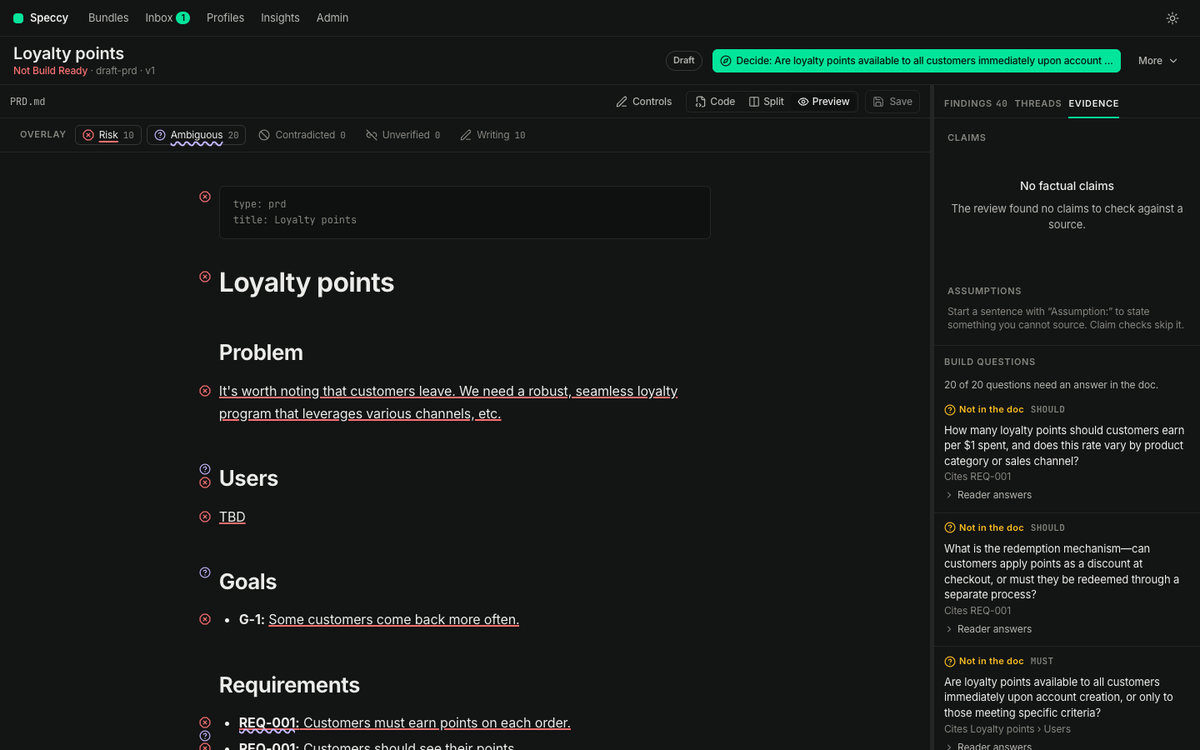
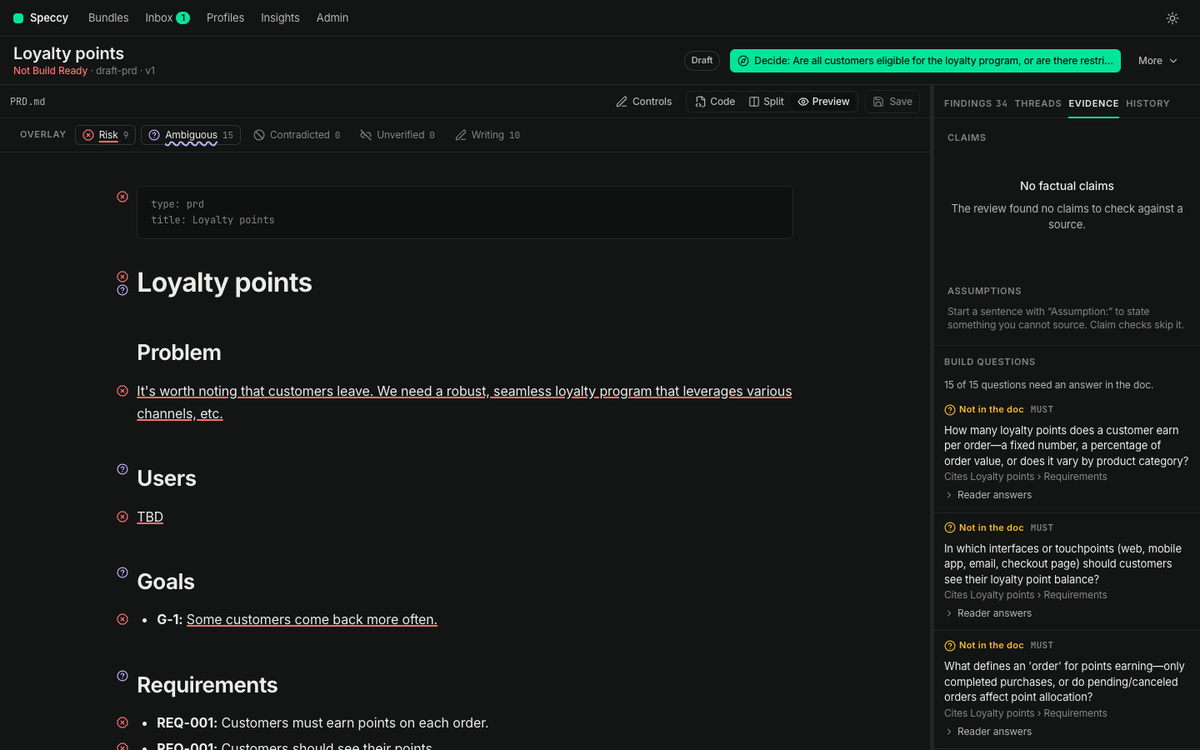
Docs for 0.14.0
The README and the GitHub guide point at 0.14.0. The guide, the adoption doc and
the README describe the import dialog, one bundle per spec doc, adopted links,
the doc type control, and the AI findings an edit keeps. The decision log gains
the five decisions of the last pull requests. The screenshots are captured
again from the current UI. The capture tool no longer copies a dev store into
its working folder.

diff --git a/tools/buildtool/docsshots.go b/tools/buildtool/docsshots.go
@@ -51,6 +51,11 @@ func cmdDocsShots() error {
 	if err := os.CopyFS(dir, os.DirFS(seed)); err != nil {
 		return err
 	}
+	// The seed folder is also the dev server's folder, so it can hold a store. A copy of that
+	// store's key is readable by others, and the server refuses it; the shots start clean.
+	if err := os.RemoveAll(filepath.Join(dir, ".speccy", "state")); err != nil {
+		return err
+	}
 	for _, f := range mustGlob(filepath.Join(dir, "*", "*.golden.json")) {
 		_ = os.Remove(f)
 	}

diff --git a/docs/decisions.md b/docs/decisions.md
@@ -693,3 +693,33 @@ Small implementation choices that `SDD.md` does not cover (`BUILD.md` §2). Newe
 - **Choice:** A source URL makes a GitHub source in local mode and in hosted mode: `owner/name`, a repo URL, a `tree` URL, or a `blob` URL. `POST /github/resolve` says what the URL names before the source exists, and the dialog and `speccy add` both use it. A `blob` URL makes a one-doc source: `github_source` gains `is_file`, `profile`, and `api_url`, and the sync maps that doc so the single-file bundle rule (REQ-131) makes the bundle, with its `<name>.assets/` folder. Local mode gets its token from `gh auth token --hostname <host>` for each call and stores nothing, with a pasted fine-grained token as the fallback; the error says which of gh missing, gh logged out, or no access stopped it. Both modes poll every 5 minutes. A 404 on the repo reads as "no access", not "not found".
 - **Alternative:** Clone the repo to disk in local mode, or read it with `gh api`.
 - **Reason:** A copy on disk with no git behind it becomes a second truth, and the app already reads a repo tree through an `fs.FS`, so the scan rules are the same for a folder and a repo. `gh` gives the credential the machine already holds; using it for more than the token would be a second way to read a repo.
+
+## 2026-09-23 — A verification run starts from a pasted link
+
+- **Choice:** One field takes a GitHub URL of a repo, a branch, a file, a commit or a pull request, or a folder in local mode; with none, the run reads the repo of the doc's `implemented-by` link, else the last run's repo. Speccy shows the repo and the commit before it starts. A run is a job in the review queue: `POST /bundles/{id}/verifications` returns 202, progress streams by trace ID, and the CLI, MCP and the Action wait for it. The run acts as the person who started it, and reads as done only after its blocking threads exist. Hosted mode refuses a folder, for the old `path` field too.
+- **Alternative:** Keep the synchronous request, and require `--repo` and `--sha`.
+- **Reason:** A request that makes model calls for every trace ID outlives a hosted proxy timeout, and the doc already names its code.
+
+## 2026-09-23 — The mapper reads the files it quotes
+
+- **Choice:** For a requirement no file names, the mapper picks up to 4 files from the paths, then quotes one line from the text Speccy read of each. A quote that misses snaps to the one file line it names, when one exists. A judge quote that leaves text out with an ellipsis counts when every piece is in one cited file. A proposal that does not hold stays as a target with its fault.
+- **Alternative:** One call that names files and quotes them from the paths alone.
+- **Reason:** A model cannot quote a file it never saw, so every repo whose code does not name its trace IDs came back missing. Speccy still checks every quote, so a model adds a candidate and never a fact.
+
+## 2026-09-23 — One bundle per spec doc
+
+- **Choice:** A folder with two or more spec docs gives one single-file bundle per doc, in the scan of a folder, a repo source and an import alike. Import lists every markdown file with a profile picker and offers the link from an SDD to the one doc its profile builds on; the person confirms it. An import writes the link into the SDD; a repo source stores an adopted link (`adopted_link`, link origin `adopted`), and a link the repo names replaces it. The bundle page can change a doc's type.
+- **Alternative:** A bundle with more than one reviewed doc; a type-to-profile mapping and a workspace default profile.
+- **Reason:** A verdict, a link and a handoff already belong to one bundle. One profile per doc type stands, and a default would review a doc with a profile nobody chose.
+
+## 2026-09-23 — An inbox item is read on its own
+
+- **Choice:** This extends the 2026-09-19 inbox decision. Each item has a key (its kind, bundle, thread or waiver, and time), and `inbox_read` records the items a person opened. An item is unread when it is newer than `inbox_seen_at` and not opened.
+- **Alternative:** Keep only the "seen up to" time.
+- **Reason:** A click must mark the item it opens, not every older one.
+
+## 2026-09-23 — AI findings survive an edit to other sections
+
+- **Choice:** A lint run carries the AI findings of the last full review whose anchored section is unchanged; a finding with no section carries while the whole doc is unchanged. They count in the verdict and keep their rows and IDs in the full run; the lint verdict stores their IDs, the full run and the number of changed sections, and the reads merge them. The verdict row keeps its scored items, so the AI items carry into the score.
+- **Alternative:** Show old findings without counting them; copy their rows into each lint run.
+- **Reason:** A lint verdict after any edit dropped every AI MUST finding, so an unrelated edit could turn a blocked doc Build Ready. The error now runs one way: a gap an edit answered elsewhere stays until the next review.

diff --git a/docs/guide.md b/docs/guide.md
@@ -42,7 +42,9 @@ A doc you wrote before Speccy takes a different way in. [adoption.md](adoption.m
 - `speccy init --github` in a repo that holds specs already. It maps the docs it recognises, relaxes the checks that fail today, and writes the Action's workflow. One pull request adopts the repo, and the first review names the checks your team opted into. See [configuration.md](configuration.md).
 - **From GitHub** on the bundles screen, or `speccy add <url>`. Paste the address of a repo, a folder in one, or a single doc. Speccy shows the repo, the branch, the doc and the doc type before it reads anything. It reads through the GitHub API and writes no file into your folder. Local mode uses the token of your `gh` login; run `gh auth login` first, or paste a token in Admin → GitHub.
 
-A doc written before Speccy names no type. **Import** takes it anyway: it guesses the type from the headings, shows the guess, and lets you pick another. It then writes one line, `type: <key>`, at the top of the file it creates, and changes nothing else. A drop whose type Speccy cannot guess opens the same dialog with the file in it.
+A doc written before Speccy names no type. **Import** takes it anyway. It lists every markdown file in the upload with a doc type picker, prefilled with the type the file names or the profile its headings fit, and a "Not a spec" choice. Each file you give a type becomes its own bundle, and Speccy writes one line, `type: <key>`, into it and changes nothing else. When the files include an SDD and the one PRD it builds on, Speccy offers the link, and writes it into the SDD once you confirm. A drop of a folder with several markdown files, or of a file whose type Speccy cannot guess, opens the same dialog.
+
+**More → Change doc type** changes a doc's type later. Speccy writes the new type into a doc it holds, and keeps it in Speccy for a doc in a repo.
 
 ![Import: the file, the guessed doc type, and what Speccy writes](images/guide-import.png)
 
@@ -104,6 +106,8 @@ The verdict is the answer. It sits under the title, in words. Build Ready means:
 ![The control row after a review: the verdict, and the next thing to fix](images/guide-verdict.png)
 
 An older version's verdict is stale. Speccy says so and asks for a new run.
+
+An edit does not throw the AI review away. Lint runs again on the new version, and the AI findings of the last review stay for every section you did not change: they still count in the verdict, and the rail keeps them. A finding in a section you changed drops out, because the model never read the new text. The control row says so: "AI review from v2 · 1 section changed". Run the review again to cover the changed sections; the unchanged ones come from the cache.
 
 ## 6. Follow the next action
 

diff --git a/README.md b/README.md
@@ -30,7 +30,7 @@ The script picks the release for your machine, **checks it against the published
 Download an archive from the [releases page](https://github.com/alternayte/speccy/releases), check it, and put the binary on your PATH:
 
 ```sh
-VERSION=0.13.0
+VERSION=0.14.0
 OS=$(uname -s | tr '[:upper:]' '[:lower:]')          # darwin or linux
 ARCH=$(uname -m | sed 's/x86_64/amd64/;s/aarch64/arm64/')
 BASE=https://github.com/alternayte/speccy/releases/download/v$VERSION
@@ -108,7 +108,7 @@ jobs:
     runs-on: ubuntu-latest
     steps:
       - uses: actions/checkout@v4
-      - uses: alternayte/speccy@v0.13.0
+      - uses: alternayte/speccy@v0.14.0
         with:
           models: all=anthropic:<model> # leave out for the deterministic checks only
           anthropic-api-key: ${{ secrets.ANTHROPIC_API_KEY }}
@@ -135,7 +135,7 @@ docker run -p 8080:8080 \
   -e SPECCY_DATABASE_URL=postgres://user:pass@host:5432/speccy \
   -e SPECCY_MASTER_KEY="$(openssl rand -base64 32)" \
   -e SPECCY_BASE_URL=https://speccy.example.com \
-  ghcr.io/alternayte/speccy:0.13.0
+  ghcr.io/alternayte/speccy:0.14.0
 ```
 
 The image runs hosted mode as a non-root user. Local mode is not a container job: it listens on loopback only, by design, because it has no sign-in. [docs/configuration.md](docs/configuration.md) has the environment, the accounts and the sharing.
@@ -160,7 +160,7 @@ A review has six stages: lint, rubric, grounding, divergence, coherence, and the
 - **Coherence** — linked docs must cover each other, must not contradict, and must not repeat. When a linked doc changes, the verdict goes stale.
 - **Verdict** — a pure function with no I/O.
 
-Each check carries a level. The doc is **Build Ready** only when no MUST finding is open and any required upstream link exists. SHOULD and INFO never change the verdict. A verdict for an old version is **stale**. The score is passed checks over applicable checks: for tracking, not a gate.
+Each check carries a level. The doc is **Build Ready** only when no MUST finding is open and any required upstream link exists. SHOULD and INFO never change the verdict. A verdict for an old version is **stale**. An edit keeps the AI findings of every section it did not change, so a doc blocked by one stays blocked until that section changes or a new review clears it. The score is passed checks over applicable checks: for tracking, not a gate.
 
 ## Commands
 

diff --git a/docs/adoption.md b/docs/adoption.md
@@ -23,11 +23,13 @@ The bundles screen lists the markdown files in the served folder that name no ty
 
 `speccy init` does the same in a terminal, and Enter takes the guess.
 
-**Import** takes a file from anywhere: it guesses the type from the headings, shows the guess, and lets you pick another. It writes one line, `type: <key>`, and changes nothing else.
+**Import** takes a file, a .zip or a dropped folder from anywhere. It lists every markdown file with a doc type picker, prefilled with the type the file names or the profile its headings fit, and a "Not a spec" choice. Each file you give a type becomes its own bundle. Speccy writes one line, `type: <key>`, into it and changes nothing else. A PRD and an SDD side by side get the link between them offered, prechecked, and written into the SDD on import.
 
 ![Import: the file, the guessed doc type, and what Speccy writes](images/guide-import.png)
 
-A drag of a folder or a file onto the bundles screen does the same, and a drop whose type Speccy cannot guess opens that dialog with the file in it.
+A drag of a folder or a file onto the bundles screen does the same. A folder with several markdown files, or a file whose type Speccy cannot guess, opens that dialog with the files in it.
+
+A folder on disk or in a repo that holds two docs with a type gives one bundle per doc. When you accept a type for a doc in a repo source, Speccy offers the link to the one doc in the same folder that it builds on. Speccy keeps that link, as it keeps the type: the repo takes no commit, and a link the repo names itself replaces it.
 
 ### A file that is not a spec
 

diff --git a/docs/github.md b/docs/github.md
@@ -122,7 +122,7 @@ jobs:
     runs-on: ubuntu-latest
     steps:
       - uses: actions/checkout@v4
-      - uses: alternayte/speccy@v0.13.0
+      - uses: alternayte/speccy@v0.14.0
         with:
           models: all=anthropic:<model>             # leave out for lint checks only
           anthropic-api-key: ${{ secrets.ANTHROPIC_API_KEY }}
